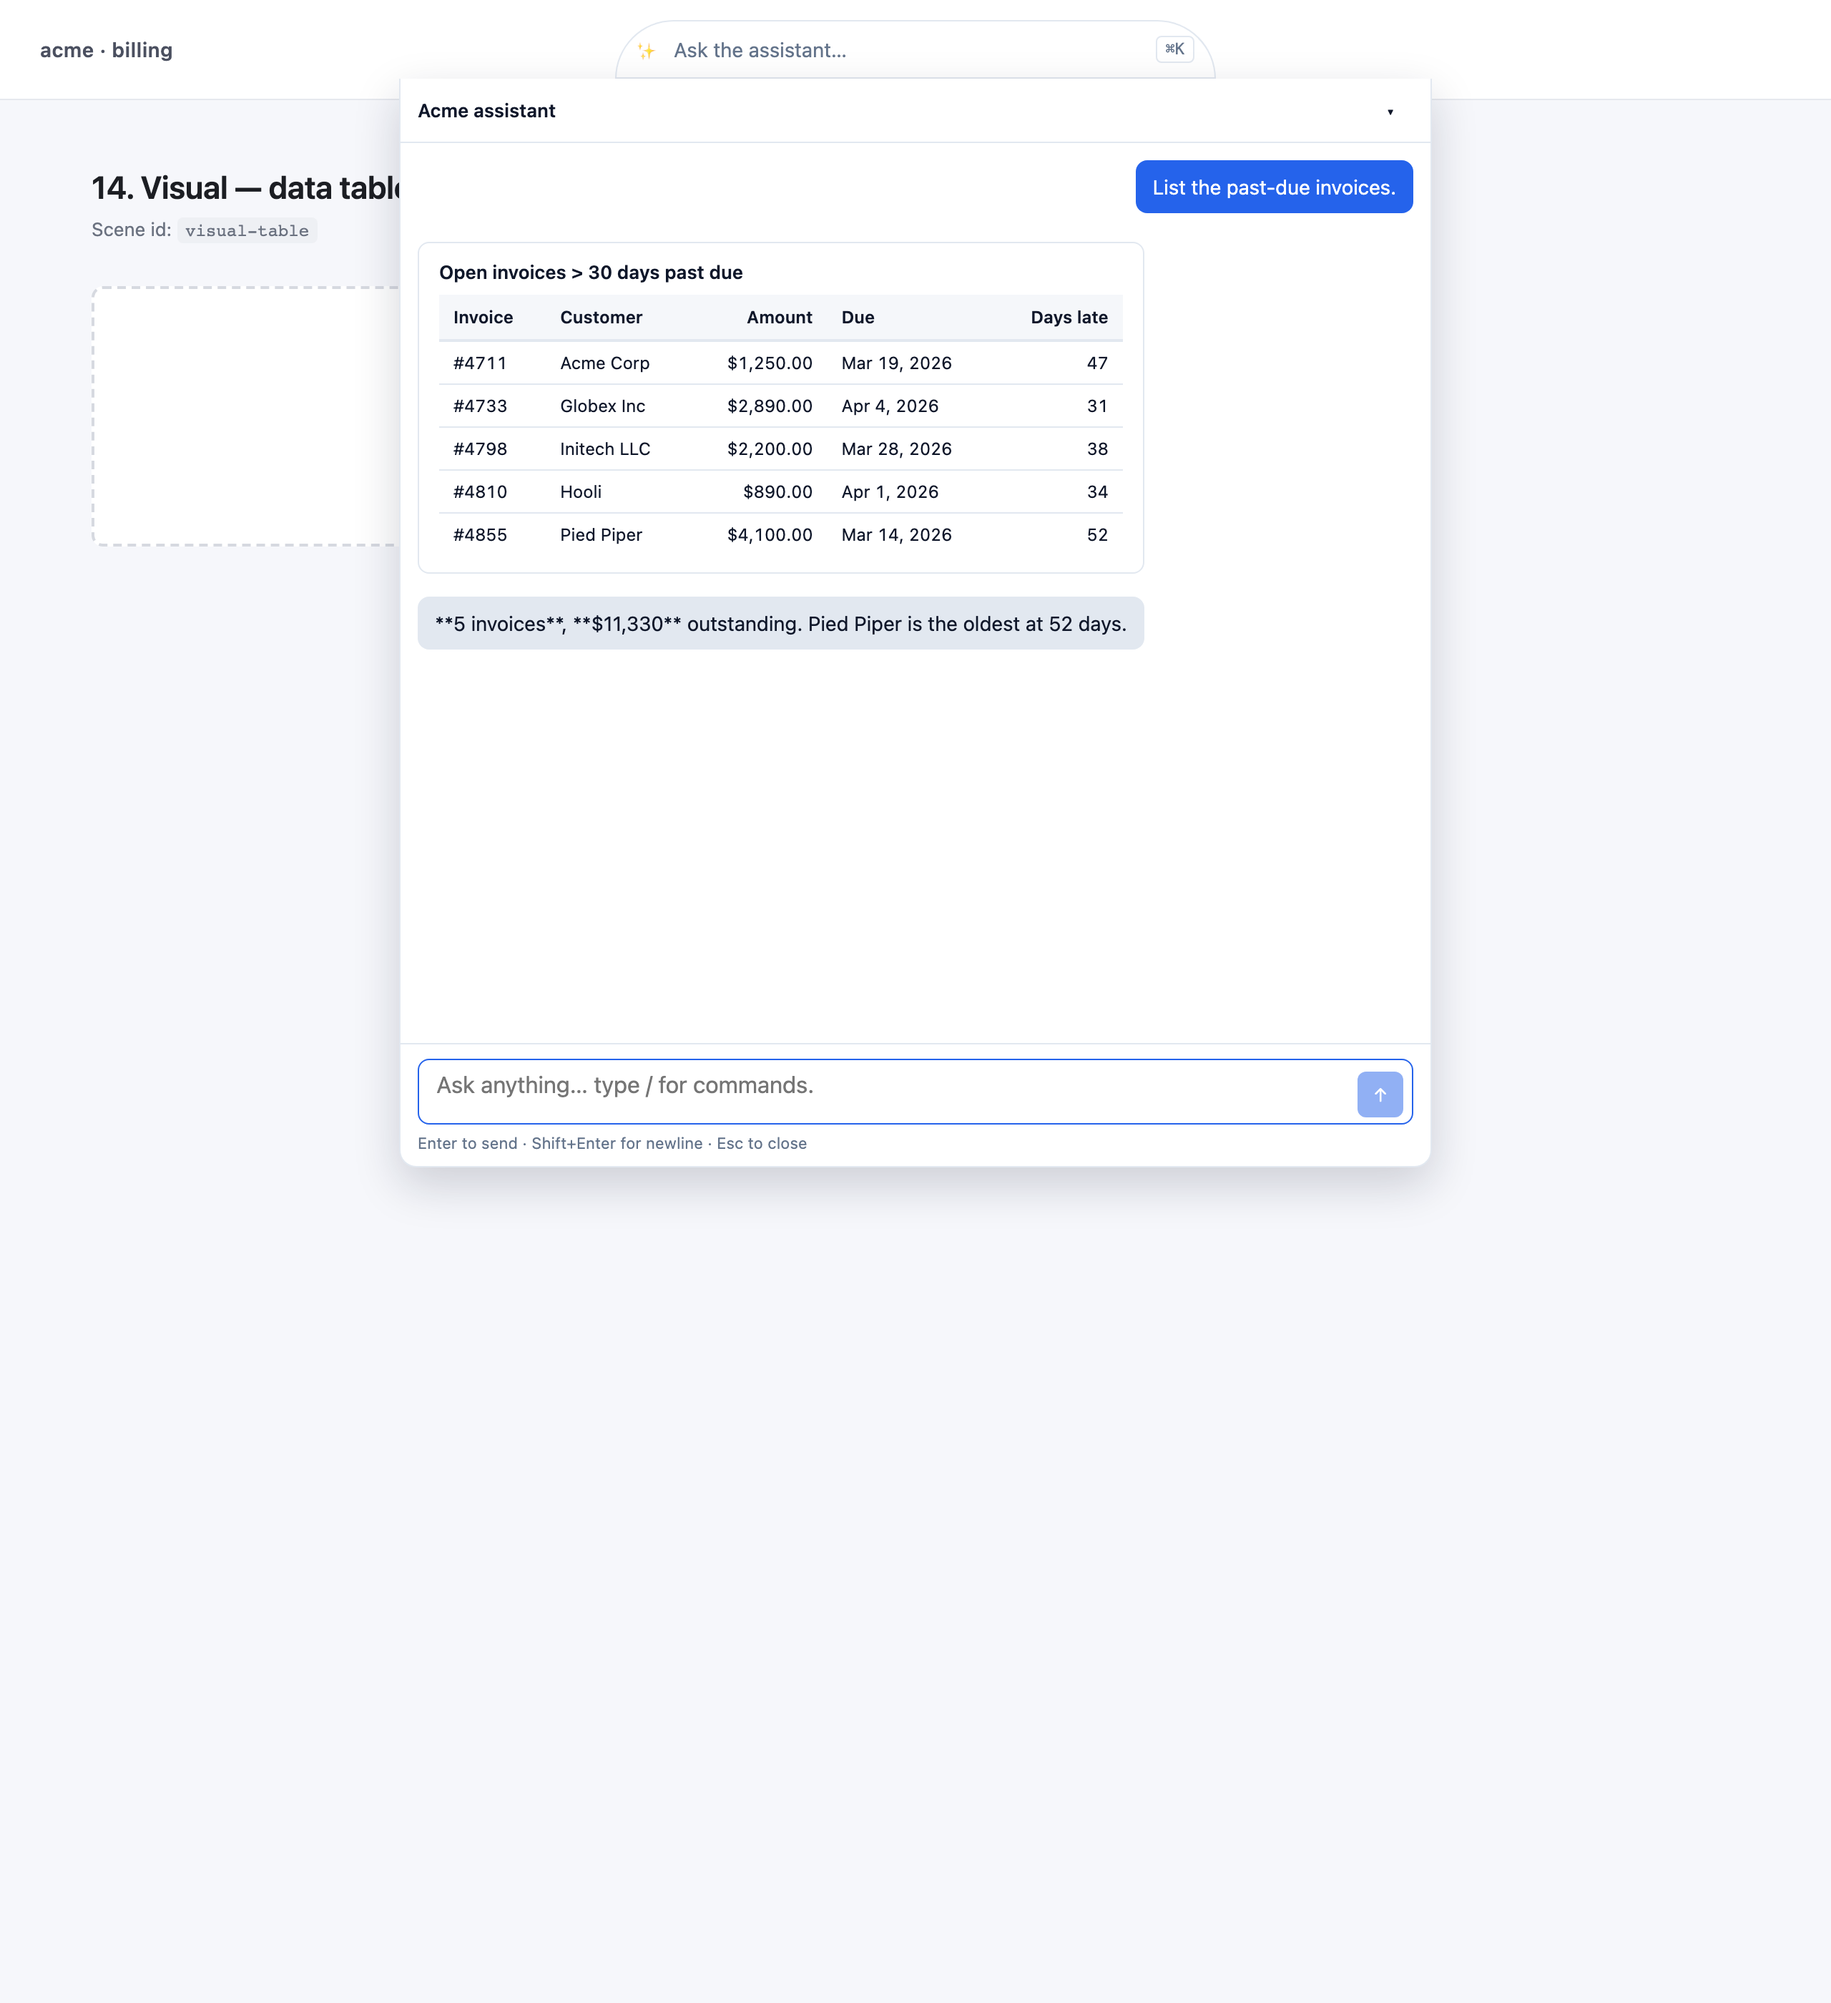
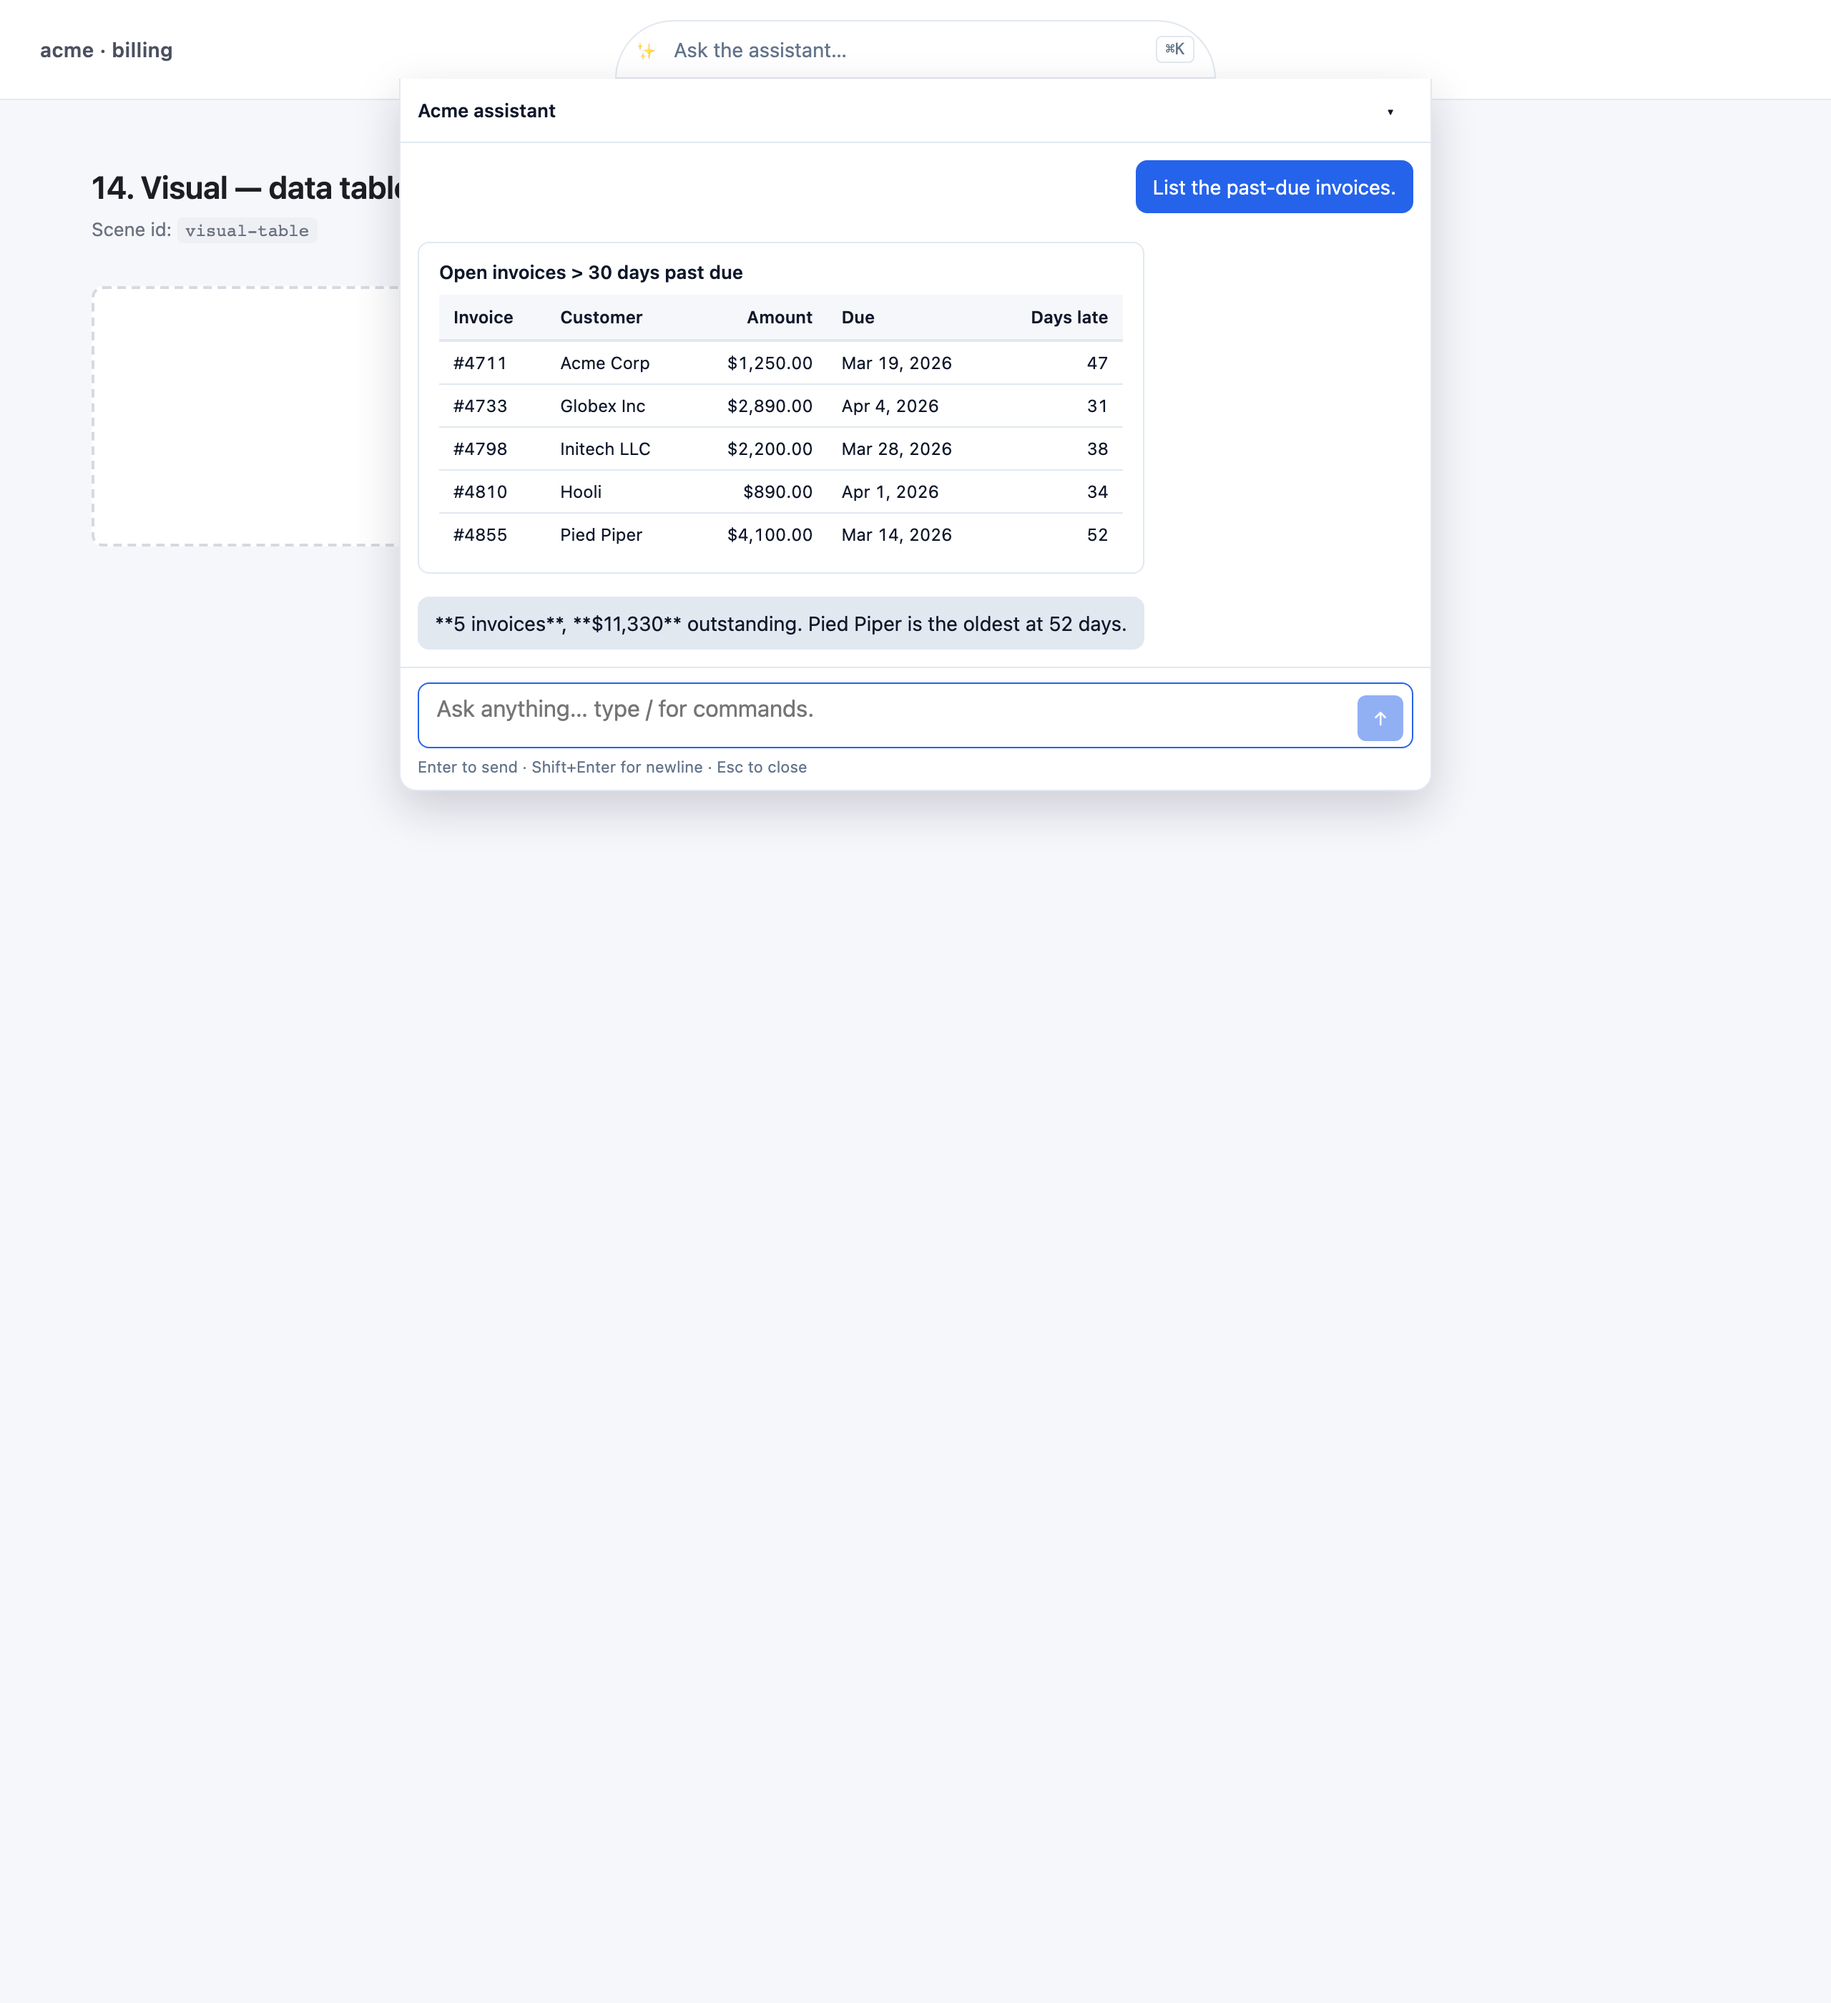
fix(visuals): fully-rendered charts + cleaner labels in screenshots (#16)
* fix(visuals): fully-rendered charts + cleaner labels in screenshots

Five visual screenshots had real rendering issues; all root-caused
to library / fixture defaults and fixed without changing the
public API.

1. Line / area / bar / scatter charts captured ~10% of the way
   through their reveal.  Recharts animates via react-smooth
   (requestAnimationFrame), not CSS, so the global
   ``animation-duration: 0`` style the screenshot harness
   injects doesn't disable it.  Added
   ``isAnimationActive={false}`` to all four series components.
   The donut already had it, which is why pie was the only
   chart whose data drew fully.

2. Donut labels: dropped the outside-callout label prop on
   ``<Pie>``.  At small chart heights the inline ``31-60 days``
   label collided with the legend entry directly below it,
   and the ``0-30 days`` callout clipped the chart frame.
   The legend already lists every bucket and the tooltip
   shows per-slice values on hover.

3. Image preview: the placeholder ``data:`` URI was a literal
   1×1 transparent PNG — technically valid but read as an
   empty box in screenshots.  Swapped to a 32×20 PNG that
   looks like a small ascending bar chart, matching the
   prompt copy ("Here is the chart from the board deck").

4. Mixed visual table cut off: ``.aaui-panel`` was capped at
   760px in demo.css; the KPI + bar chart + table scene
   needs ~950px, so the table fell below the visible area
[…]

Changed region(s): [[0.2188, 0.3418, 0.7812, 0.435], [0.2188, 0.5282, 0.7812, 0.5904]]

diff --git a/demo/scenes.ts b/demo/scenes.ts
@@ -387,9 +387,17 @@ const visualKpi = (): ChatMessage[] => [
   },
 ]
 
-// 1×1 transparent PNG — the smallest valid base64 image.
+// 640×400 RGB PNG of a board-deck quarterly revenue bar chart
+// (four ascending blue bars + gridlines on white).  Displayed at
+// 320×200 CSS pixels in the panel, so retina (2× DPR) screenshots
+// map device pixels 1:1 against the source for crisp edges.
+// Generated by a hand-rolled encoder (Node zlib + raw RGB chunks)
+// — earlier versions used indexed-palette encoders that introduced
+// vertical color banding on the bar edges, reading as a glitchy
+// upload rather than a real preview.  A 1×1 transparent before
+// that rendered as an empty box; same problem.
 const TINY_PNG_DATA_URI =
[2 lines of base64/hex data omitted]
 
 const visualMixed = (): ChatMessage[] => [
   {

diff --git a/src/visuals/ChartVisual.tsx b/src/visuals/ChartVisual.tsx
@@ -82,6 +82,13 @@ function renderBar(spec: ChartSpec, colorFor: (i: number) => string) {
           dataKey={k}
           fill={colorFor(i)}
           stackId={spec.stacked ? 'all' : undefined}
+          // Recharts' animation is JS-driven (react-smooth /
+          // requestAnimationFrame), not CSS, so the
+          // global ``animation-duration: 0`` style we inject
+          // for screenshots doesn't disable it.  Turn it off
+          // explicitly so static snapshots capture the full
+          // series, not a partially-drawn frame.
+          isAnimationActive={false}
         />
       ))}
     </BarChart>
@@ -104,6 +111,8 @@ function renderLine(spec: ChartSpec, colorFor: (i: number) => string) {
           stroke={colorFor(i)}
           dot={{ r: 3 }}
           strokeWidth={2}
+          // See Bar above for the rationale.
+          isAnimationActive={false}
         />
       ))}
     </LineChart>
@@ -127,6 +136,8 @@ function renderArea(spec: ChartSpec, colorFor: (i: number) => string) {
           fill={colorFor(i)}
           fillOpacity={0.25}
           stackId={spec.stacked ? 'all' : undefined}
+          // See Bar above for the rationale.
+          isAnimationActive={false}
         />
       ))}
     </AreaChart>
@@ -144,7 +155,12 @@ function renderScatter(spec: ChartSpec, colorFor: (i: number) => string) {
       <XAxis dataKey={spec.x_key} label={axisLabel(spec.x_label, 'bottom')} />
       <YAxis dataKey={yKey} label={axisLabel(spec.y_label, 'left')} />
       <Tooltip />
-      <Scatter data={spec.data} fill={colorFor(0)} />
+      <Scatter
+        data={spec.data}
+        fill={colorFor(0)}
+        // See Bar above for the rationale.
+        isAnimationActive={false}
+      />
     </ScatterChart>
   )
 }
@@ -171,9 +187,11 @@ function renderPie(spec: ChartSpec, colorFor: (i: number) => string) {
         cy="50%"
         outerRadius={outerRadius}
         innerRadius={innerRadius}
-        label={(entry: { label?: string; name?: string }) =>
-          entry.label ?? entry.name ?? ''
-        }
+        // No outside-callout labels: they collide with the legend
+        // (same text strings stacked on top of each other at
+        // small chart heights) and clip the chart frame at the
+        // top.  The legend already lists every bucket, and the
+        // tooltip shows per-slice values on hover.
         isAnimationActive={false}
       >
         {(spec.data as Array<unknown>).map((_, i) => (

diff --git a/demo/demo.css b/demo/demo.css
@@ -133,10 +133,27 @@ body {
   background: #ffffff;
 }
 
-/* The lib's `.aaui-panel` defaults to 500px tall — fine for short
-   exchanges, but the screenshot scenes include chart visuals
-   (~280px each) and need more room so the chart + surrounding
-   bubbles fit in one frame.  Applies only to the demo. */
-.demo-shell__bar-wrap > .aaui-panel {
-  height: 760px;
+/* The lib's `.aaui-panel` defaults to a fixed 500px tall — fine
+   for short exchanges, but the screenshot scenes vary wildly:
+   short empty-state shots need ~400px; the visual-mixed scene
+   (KPI + bar chart + three-row table + narration) needs ~950px.
+   Forcing a single tall height creates huge empty space in
+   short scenes AND extends the page in *closed*-panel scenes
+   (the absolutely-positioned panel still counts toward
+   scrollHeight), so ``fullPage`` captures a tall mostly-empty
+   image.
+   Content-driven sizing fixes both: ``height: auto`` lets the
+   panel grow with its contents; ``max-height`` caps the worst
+   case; and the closed-panel modifier collapses the panel out
+   of flow entirely so notifying/collapsed scenes stay short. */
+.demo-shell__bar-wrap > .aaui-panel.aaui-panel--open {
+  height: auto;
+  max-height: 1100px;
+}
+.demo-shell__bar-wrap > .aaui-panel.aaui-panel--closed {
+  height: 0;
+  /* keep visibility:hidden semantics from the lib but make
+     sure the element doesn't extend the document scrollHeight. */
+  max-height: 0;
+  overflow: hidden;
 }
